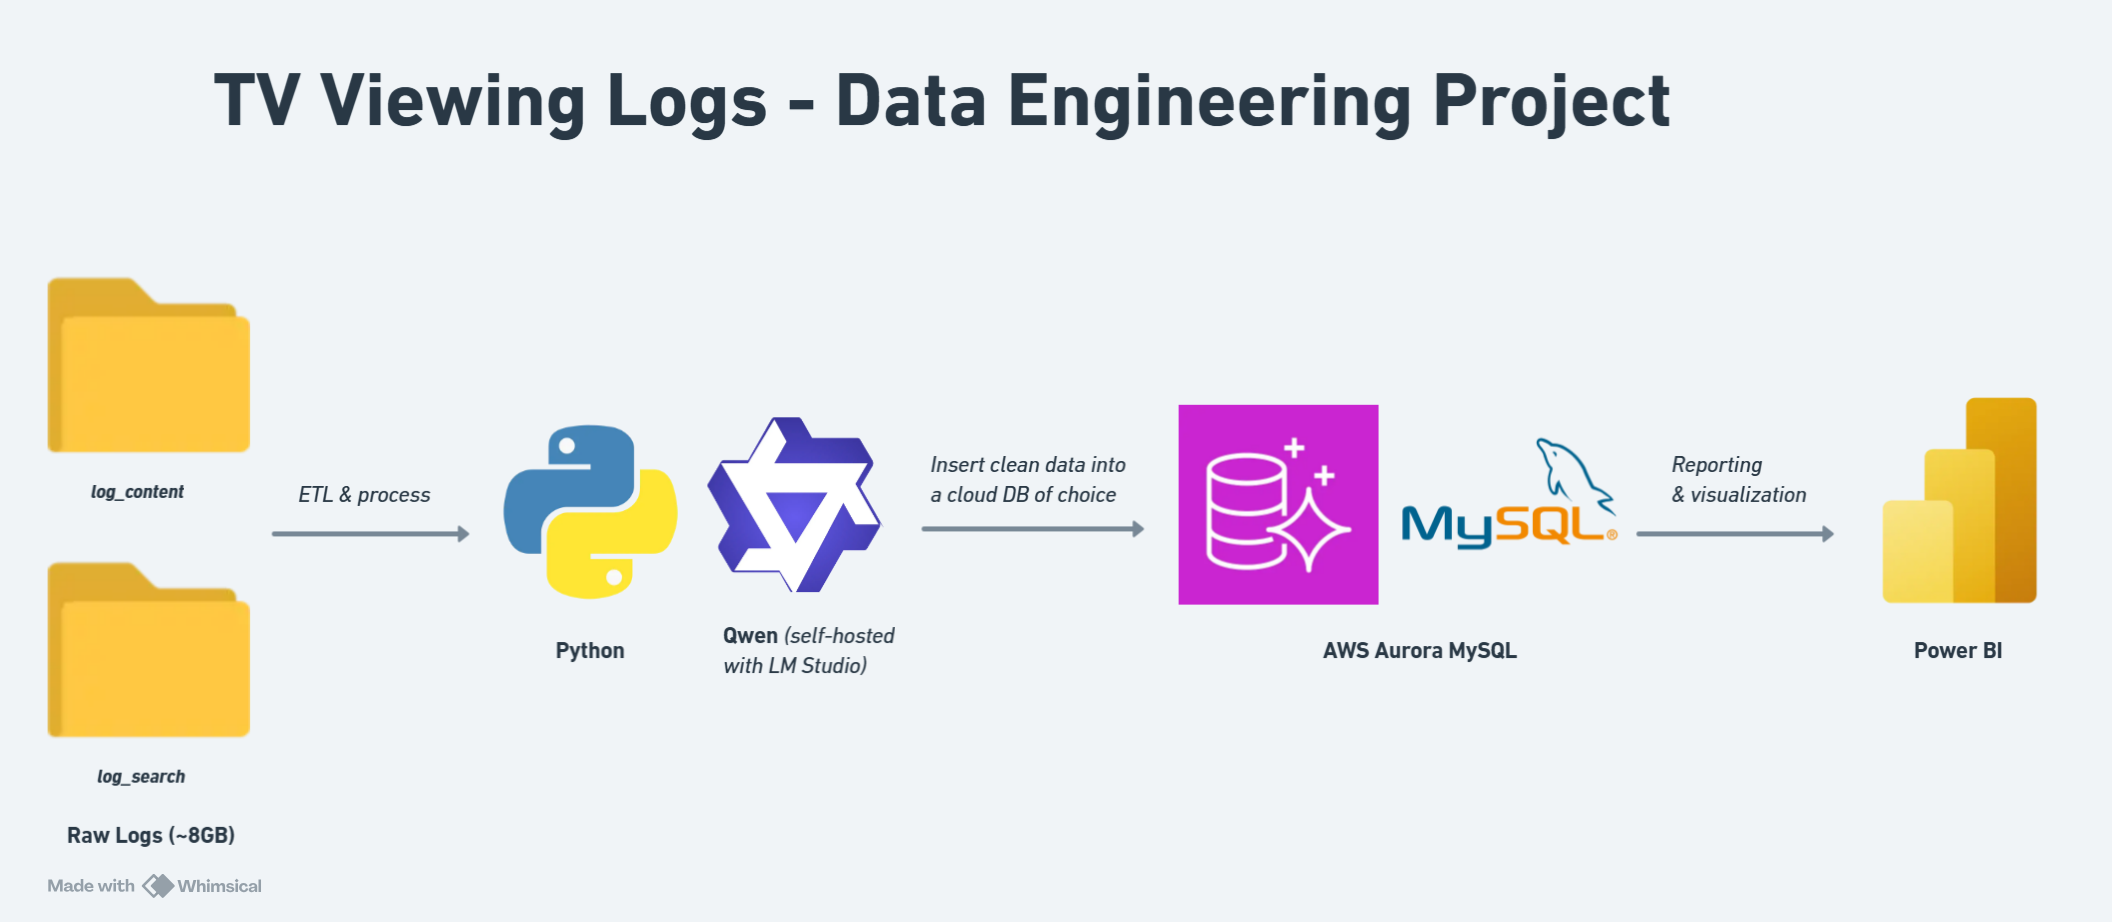
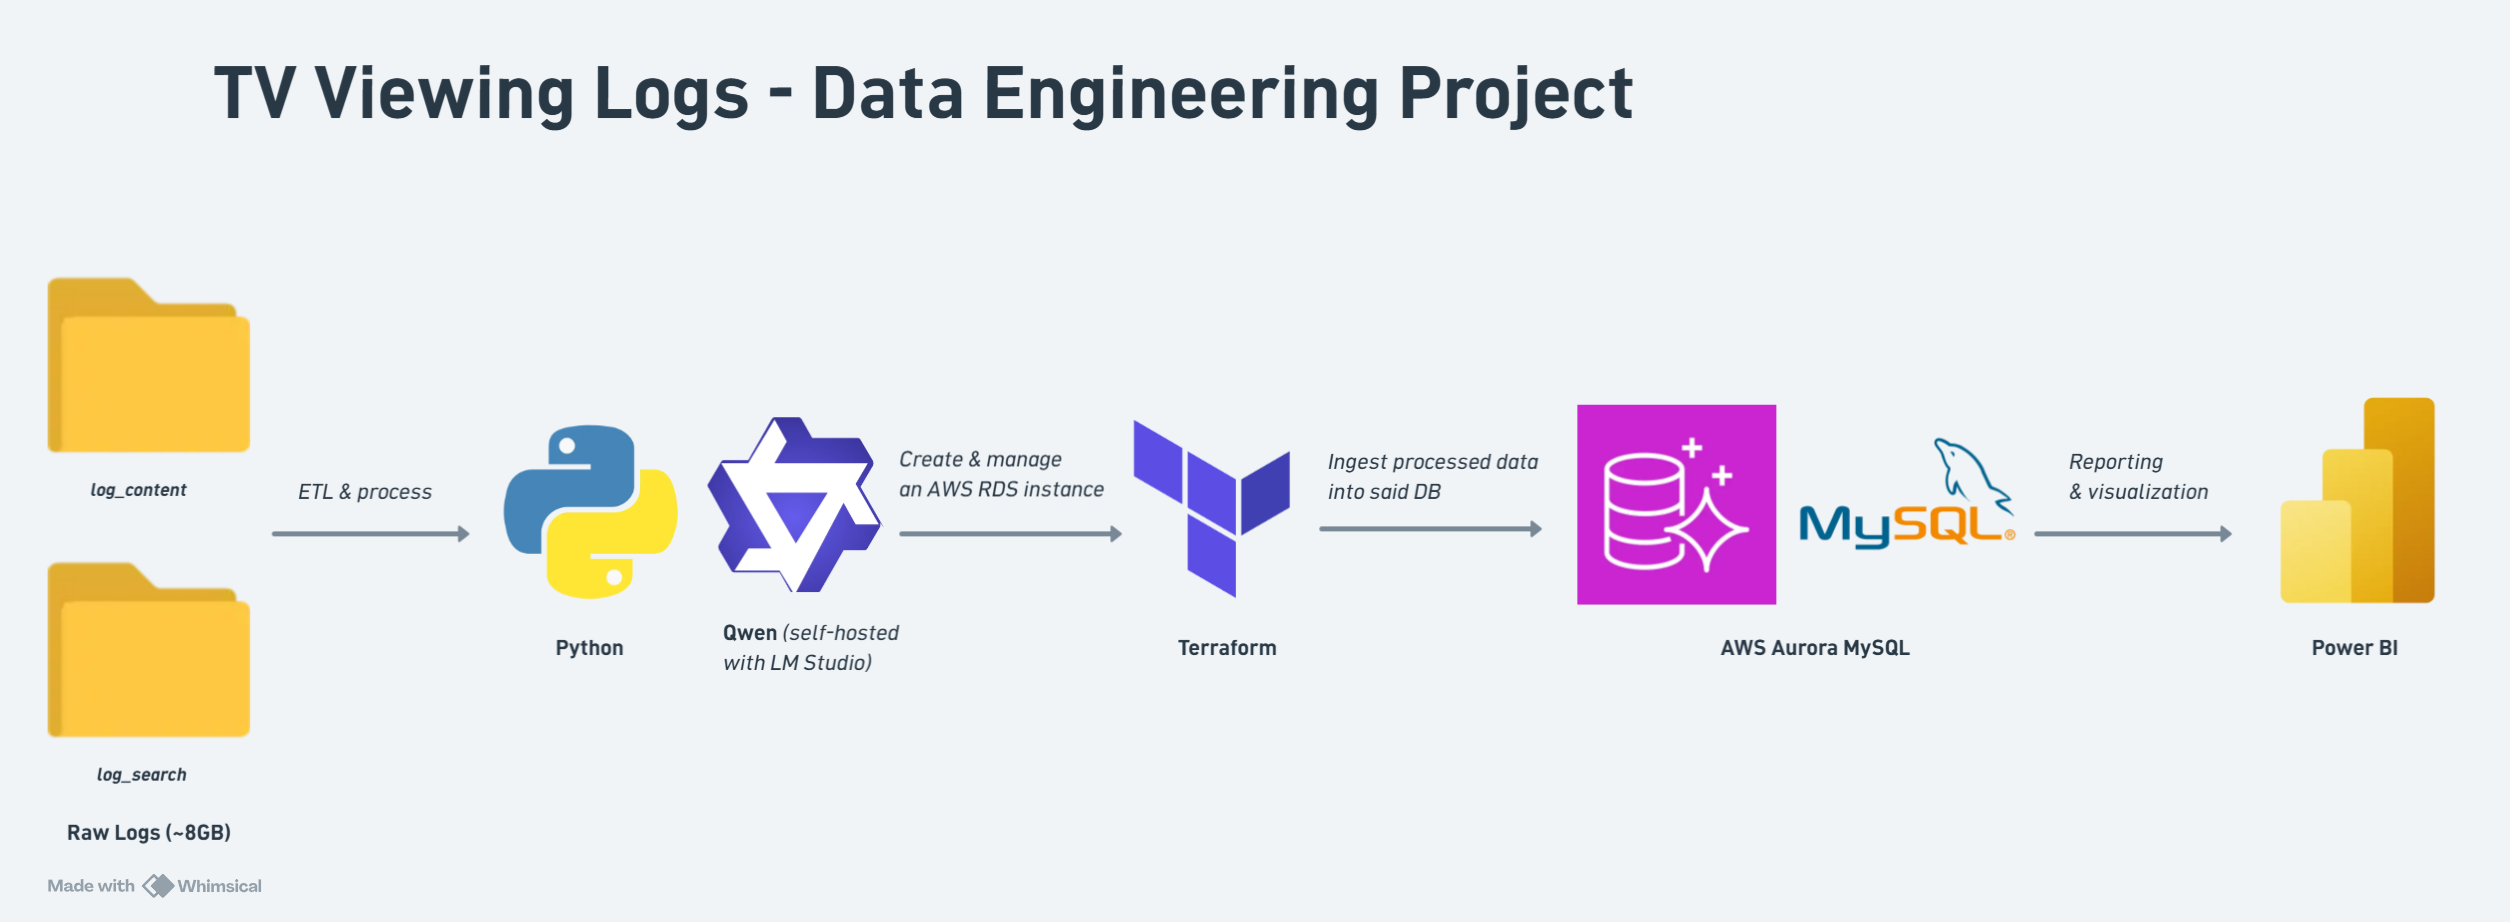
updated workflow png

diff --git a/README.md b/README.md
@@ -7,9 +7,9 @@
 </a>
 
 Bài tập cuối khóa của lớp DE anh Trần Hoàng Long. Project này hoạt động theo các bước sau: 
-1) Xử lý & tổng hợp data ở 2 folder `log_content` & `log_search` *(2 folder này không tiện show public, vui lòng liên hệ tôi để lấy)*
-2) Bắn các bảng data tổng hợp lên DB
-3) Kết nối viz tool với data trong DB để vẽ dashboard
+1) Xử lý & tổng hợp 8GB data raw ở 2 folder `log_content` & `log_search` bằng PySpark và self-hosted LLM tùy chọn *(2 folder này không tiện show public, vui lòng liên hệ tôi để lấy)*
+2) Bắn các bảng data tổng hợp lên DB (AWS RDS, tạo bởi Terraform hoặc thủ công)
+3) Kết nối viz tool (Power BI) với data trong DB để vẽ dashboard
 
 ## 1. Cài đặt môi trường và thư viện
 
